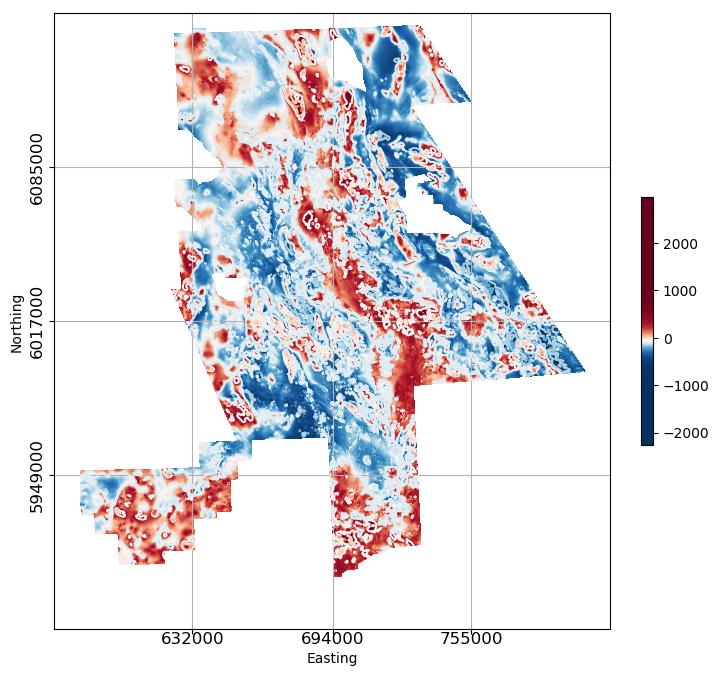
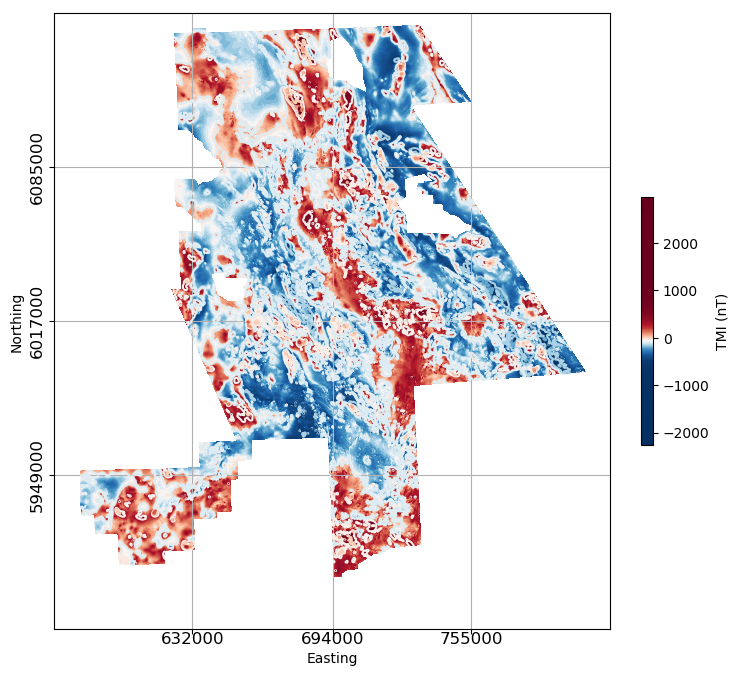
Do edits request by DrM

diff --git a/library/Mag/Simulator.py b/library/Mag/Simulator.py
@@ -70,8 +70,9 @@ def cmaps():
     """
 
     return [
-              'viridis', 'plasma', 'RdBu_r',
-              'Greys_r', 'jet', 'hsv', 'rainbow', 'gnuplot'
+              'viridis', 'plasma', 'magma', 'RdBu_r',
+              'Greys_r', 'jet', 'hsv', 'rainbow', 'pink',
+               'bone', 'hsv', 'nipy_spectral'
             ]
 
 
@@ -171,8 +172,8 @@ def ViewMagSurveyWidget(survey):
                       fig=fig, ax=ax2, ylabel='nT')
 
         # ax2.set_aspect(0.5)
-        # pos = ax2.get_position()
-        # ax2.set_position([pos.x0, pos.y0, pos.width*1.5, pos.height*1.5])
+        pos = ax2.get_position()
+        ax2.set_position([pos.x0, pos.y0+0.25, pos.width*2.0, pos.height*0.5])
         ax2.set_title('A', loc='left', fontsize=14)
         ax2.set_title("A'", loc='right', fontsize=14)
 
@@ -233,14 +234,14 @@ def plotMagSurvey2D(x, y, data, a, b, npts, pred=None,
     xLine, yLine = linefun(a[0], b[0], a[1], b[1], npts)
 
     # Use SimPEG.PF ploting function
-    fig, im = plotData2D(x, y, data, fig=fig,  ax=ax,
+    fig, im, cbar = plotData2D(x, y, data, fig=fig,  ax=ax,
                          vmin=vmin, vmax=vmax,
                          marker=False, cmap=cmap,
                          colorbar=False, equalizeHist=equalizeHist)
 
     ax.plot(xLine, yLine, 'w.', ms=5)
     cbar = plt.colorbar(im, orientation='horizontal')
-    cbar.set_label('nT')
+    cbar.set_label('TMI (nT)')
     ax.text(xLine[0], yLine[0], 'A', fontsize=16, color='w', ha='left')
     ax.text(xLine[-1], yLine[-1], "A'", fontsize=16,
             color='w', ha='right')
@@ -641,8 +642,16 @@ def plotDataHillside(x, y, z, axs=None, fill=True, contour=0,
             my_cmap = cmap
 
         extent = x.min(), x.max(), y.min(), y.max()
+
+        if vmin is None:
+            vmin = d_grid.min()
+
+        if vmax is None:
+            vmax = d_grid.max()
+
+        levels = np.linspace(vmin, vmax, contour)
         im = axs.contourf(
-            X, Y, d_grid, 50, vmin=vmin, vmax=vmax,
+            X, Y, d_grid, 50, vmin=vmin, vmax=vmax, levels=levels,
             cmap=my_cmap, norm=MidPointNorm(midpoint=midpoint), alpha=alpha
         )
 
@@ -691,10 +700,10 @@ def plotData2D(x, y, d, title=None,
         ax = plt.subplot()
 
     if d.ndim == 1:
-        assert(
-            np.all([x.shape[0] == d.shape[0], y.shape[0] == d.shape[0]]),
-            "Data and locations must be consistant"
-        )
+        assert x.shape[0] == d.shape[0], "Data and x locations must be consistant"
+
+        assert y.shape[0] == d.shape[0], "Data and y locations must be consistant"
+
 
     plt.sca(ax)
     if marker:
@@ -736,8 +745,9 @@ def plotData2D(x, y, d, title=None,
                 origin='lower', vmin=vmin, vmax=vmax, cmap=my_cmap
               )
 
+        cbar = []
         if colorbar:
-            plt.colorbar(fraction=0.02)
+            cbar = plt.colorbar(fraction=0.02)
 
         if contours is None:
 
@@ -766,7 +776,7 @@ def plotData2D(x, y, d, title=None,
     ax.set_aspect('equal')
     # plt.gca().set_aspect('equal', adjustable='box')
 
-    return fig, im
+    return fig, im, cbar
 
 
 def plotProfile2D(x, y, data, a, b, npts,
@@ -847,7 +857,7 @@ def dataHillsideWidget(survey):
             MagContour, ColorMap, Equalize
          ):
 
-        fig = plt.figure(figsize=(8, 6))
+        fig = plt.figure(figsize=(12, 12))
         axs = plt.subplot()
 
         # Add shading
@@ -860,8 +870,9 @@ def dataHillsideWidget(survey):
 
         # Add points at the survey locations
         # plt.scatter(xLoc, yLoc, s=2, c='k')
-        cbar = plt.colorbar(im)
-        cbar.set_label('nT')
+        axs.set_aspect('auto')
+        cbar = plt.colorbar(im,fraction=0.02)
+        cbar.set_label('TMI (nT)')
 
         axs.set_xlabel("Easting (m)", size=14)
         axs.set_ylabel("Northing (m)", size=14)
@@ -885,11 +896,11 @@ def dataHillsideWidget(survey):
 
     out = widgets.interactive(plotWidget,
                               SunAzimuth=widgets.FloatSlider(min=0, max=360, step=5, value=0, continuous_update=False),
-                              SunAngle=widgets.FloatSlider(min=0, max=90, step=5, value=45, continuous_update=False),
-                              Saturation=widgets.FloatSlider(min=0, max=1, step=0.1, value=0.5, continuous_update=False),
+                              SunAngle=widgets.FloatSlider(min=0, max=90, step=5, value=15, continuous_update=False),
+                              Saturation=widgets.FloatSlider(min=0, max=1, step=0.1, value=0.3, continuous_update=False),
                               Transparency=widgets.FloatSlider(min=0, max=1, step=0.1, value=1.0, continuous_update=False),
-                              vScale=widgets.FloatSlider(min=1, max=4, step=1., value=1.0, continuous_update=False),
-                              MagContour=widgets.FloatSlider(min=0, max=20, step=1, value=10, continuous_update=False),
+                              vScale=widgets.FloatSlider(min=1, max=4, step=1., value=4.0, continuous_update=False),
+                              MagContour=widgets.FloatSlider(min=10, max=100, step=10, value=50, continuous_update=False),
                               ColorMap=widgets.Dropdown(
                                   options=cmaps(),
                                   value='RdBu_r',
@@ -930,7 +941,7 @@ def worldViewerWidget(worldFile, data, locs):
     def plotCountry(X, Y, ax=None, fill=True, linewidth=1):
 
         for x, y in zip(X, Y):
-            ax.plot(x, y, 0, 'k', linewidth=linewidth)
+            ax.plot(x, y, 'k', linewidth=linewidth)
 
         return ax
 
@@ -944,7 +955,7 @@ def worldViewerWidget(worldFile, data, locs):
         xyz = survey.srcField.rxList[0].locs
         plt.figure(figsize=(10, 8))
         ax1 = plt.subplot(1, 2, 1)
-        fig, im = plotData2D(
+        fig, im, cbar = plotData2D(
           xyz[:, 0], xyz[:, 1], survey.dobs,
           ax=ax1, cmap='RdBu_r', marker=False, colorbar=False
         )
@@ -956,25 +967,35 @@ def worldViewerWidget(worldFile, data, locs):
         ax1.set_yticklabels([MathUtils.decimalDegrees2DMS(dataVals[0], "Latitude")])
         ax1.set_ylabel('Latitude')
         ax1.grid(True)
-        plt.colorbar(im, orientation='horizontal')
+        cbar = plt.colorbar(im, orientation='horizontal')
+        cbar.set_label('TMI (nT)')
 
-        axs = plt.subplot(1, 2, 2, projection='3d')
+        axs = plt.subplot(1, 2, 2)
         axs = plotCountry(X, Y, ax=axs, fill=False)
+        axs.scatter(dataVals[1], dataVals[0], s=50, c='r', marker='s', )
         # axs.set_axis_off()
-        axs.set_zticklabels([])
         axs.set_aspect('equal')
         pos = axs.get_position()
-        axs.set_position([pos.x0-0.2, pos.y0-0.75, pos.width*3., pos.height*3.])
+        axs.set_position([pos.x0, pos.y0,  pos.width*1.5, pos.height*1.5])
         axs.patch.set_alpha(0.0)
         # xydata = np.loadtxt("./assets/country-capitals.csv", delimiter=",")
         for key, entry in zip(list(data.keys()), list(data.values())):
             axs.scatter(entry[1], entry[0], c='k')
 
+        axs.set_title(
+          "Earth's Field: " + str(int(dataVals[-3])) + "nT, "
+          "Inc: " + str(int(dataVals[-2])) + "$^\circ$, "
+          "Dec: " + str(int(dataVals[-1])) + "$^\circ$"
+        )
+
+        # Add axes with rotating arrow
+        pos = axs.get_position()
+        arrowAxs = fig.add_axes([10, 10 ,  pos.width*.5, pos.height*0.5], projection='3d')
         block_xyz = np.asarray([
                         [-.2, -.2, .2, .2, 0],
                         [-.25, -.25, -.25, -.25, 0.5],
                         [-.2, .2, .2, -.2, 0]
-                    ])*30.
+                    ])
 
         # rot = Utils.mkvc(Utils.dipazm_2_xyz(pinc, pdec))
 
@@ -987,34 +1008,35 @@ def worldViewerWidget(worldFile, data, locs):
 
         #print xyz
         # Face 1
-        axs.add_collection3d(Poly3DCollection([list(zip(xyz[:4, 0]+dataVals[1],
-                                                   xyz[:4, 1]+90,
-                                                   xyz[:4, 2]/800. + 0.05))], facecolors='r'))
+        arrowAxs.add_collection3d(Poly3DCollection([list(zip(xyz[[1, 2, 4], 0],
+                                                   xyz[[1, 2, 4], 1],
+                                                   xyz[[1, 2, 4], 2]))], facecolors='w'))
 
-        axs.add_collection3d(Poly3DCollection([list(zip(xyz[[1, 2, 4], 0]+dataVals[1],
-                                                   xyz[[1, 2, 4], 1]+90,
-                                                   xyz[[1, 2, 4], 2]/800. + 0.05))], facecolors='w'))
+        arrowAxs.add_collection3d(Poly3DCollection([list(zip(xyz[[0, 1, 4], 0],
+                                                   xyz[[0, 1, 4], 1],
+                                                   xyz[[0, 1, 4], 2]))], facecolors='k'))
 
-        axs.add_collection3d(Poly3DCollection([list(zip(xyz[[0, 1, 4], 0]+dataVals[1],
-                                                   xyz[[0, 1, 4], 1]+90,
-                                                   xyz[[0, 1, 4], 2]/800. + 0.05))], facecolors='k'))
+        arrowAxs.add_collection3d(Poly3DCollection([list(zip(xyz[[2, 3, 4], 0],
+                                                   xyz[[2, 3, 4], 1],
+                                                   xyz[[2, 3, 4], 2]))], facecolors='w'))
 
-        axs.add_collection3d(Poly3DCollection([list(zip(xyz[[2, 3, 4], 0]+dataVals[1],
-                                                   xyz[[2, 3, 4], 1]+90,
-                                                   xyz[[2, 3, 4], 2]/800. + 0.05))], facecolors='w'))
+        arrowAxs.add_collection3d(Poly3DCollection([list(zip(xyz[[0, 3, 4], 0],
+                                               xyz[[0, 3, 4], 1],
+                                               xyz[[0, 3, 4], 2]))], facecolors='k'))
 
-        axs.add_collection3d(Poly3DCollection([list(zip(xyz[[0, 3, 4], 0]+dataVals[1],
-                                               xyz[[0, 3, 4], 1]+90,
-                                               xyz[[0, 3, 4], 2]/800. + 0.05))], facecolors='k'))
+        arrowAxs.add_collection3d(Poly3DCollection([list(zip(xyz[:4, 0],
+                                                   xyz[:4, 1],
+                                                   xyz[:4, 2]))], facecolors='r'))
 
-        axs.scatter(dataVals[1], dataVals[0], s=50, c='r', marker='s', )
-        axs.view_init(60, -90)
-        axs.set_aspect('equal')
-        axs.set_title(
-          "Earth's Field: " + str(int(dataVals[-3])) + "nT, "
-          "Inc: " + str(int(dataVals[-2])) + "$^\circ$, "
-          "Dec: " + str(int(dataVals[-1])) + "$^\circ$"
-        )
+        arrowAxs.view_init(30, -90)
+        arrowAxs.set_xlim([-0.5, 0.5])
+        arrowAxs.set_ylim([-0.5, 0.5])
+        arrowAxs.set_zlim([-0.5, 0.5])
+        arrowAxs.set_xticks([])
+        arrowAxs.set_yticks([])
+        arrowAxs.set_zticks([])
+        # arrowAxs.set_aspect('equal')
+
         plt.show()
 
         return axs

diff --git a/library/Mag/DataIO.py b/library/Mag/DataIO.py
@@ -31,11 +31,12 @@ def loadGRDFile(fileName, plotIt=True):
         yLoc = np.asarray(range(data.ny))*data.dy+data.y0
 
         fig, axs = plt.figure(figsize=(8, 8)), plt.subplot()
-        Simulator.plotData2D(
-            xLoc, yLoc, data.values, marker=False, fig=fig, ax=axs
+        fig, im, cbar = Simulator.plotData2D(
+            xLoc, yLoc, data.values, marker=False, fig=fig, ax=axs,
+            colorbar=True
         )
         axs.grid(True)
-
+        cbar.set_label('TMI (nT)')
         plt.show()
         fig.savefig('./images/SearchQuestII.png', bbox_inches='tight')
 

diff --git a/library/Mag/ProblemSetter.py b/library/Mag/ProblemSetter.py
@@ -218,10 +218,10 @@ def setDataExtentWidget(survey):
 
         # fig,
         axs = plt.subplot(1, 2, 2)
-        Simulator.plotData2D(
+        fig, im, cbar = Simulator.plotData2D(
             xLoc[indx], yLoc[indy], subData, marker=False, fig=fig, ax=axs
         )
-
+        cbar.set_label('TMI (nT)')
         return dataSub
 
     if isinstance(survey, DataIO.dataGrid):
